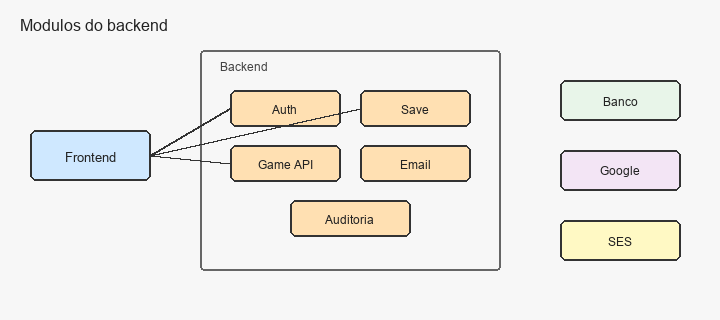
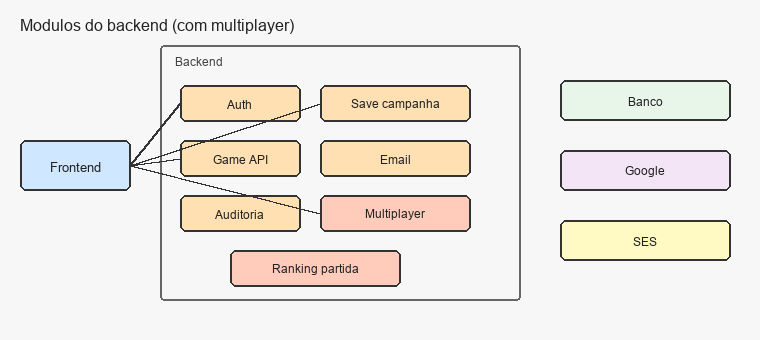
docs(isn): implante obrigatório e multiplayer nos diagramas
Remove escolha de implante na clínica; inclui multiplayer na
arquitetura, fluxos, requisitos, regras e casos de uso.

diff --git a/isn/docs/sprint1/05-diagramas-de-blocos.md b/isn/docs/sprint1/05-diagramas-de-blocos.md
@@ -3,22 +3,23 @@
 Projeto: Flesh to Chrome  
 Sprint 1 — visão de arquitetura (ainda pode mudar na implementação)
 
-As figuras estão em PNG em [`../imagens/`](../imagens/) (abrimos direto no GitHub/Preview). Também tem o Mermaid abaixo pra quem quiser editar fácil.
+As figuras estão em PNG em [`../imagens/`](../imagens/). Também tem Mermaid pra editar fácil.
 
 ---
 
 ## 1. Visão geral — cliente, servidor e nuvem
 
-O browser baixa o frontend e fala com a API. A API usa banco, OAuth e serviço de e-mail. Em produção isso vive na AWS.
+O browser baixa o frontend e fala com a API. A API cuida de save da campanha, multiplayer/salas, OAuth e e-mail.
 
 ```mermaid
 flowchart LR
   usuario[Usuario]
   browser[Browser_Frontend_Phaser]
   api[Backend_API_REST]
-  db[(Banco_de_dados)]
+  db[(Banco_save_ranking)]
   oauth[Provedor_OAuth_Google]
   email[Email_notificacoes]
+  mp[Multiplayer_salas]
   static[Hospedagem_estatica]
 
   usuario --> browser
@@ -27,6 +28,7 @@ flowchart LR
   api --> db
   api --> oauth
   api --> email
+  api --> mp
 ```
 
 ![Visão geral](../imagens/diagrama-visao-geral.png)
@@ -35,18 +37,18 @@ flowchart LR
 
 ## 2. Módulos do backend
 
-Separação bem direta do que a API precisa ter pra atender a disciplina + o jogo:
-
 ```mermaid
 flowchart TB
   fe[Frontend_Phaser]
 
   subgraph backend [Backend]
     auth[Auth_OAuth]
-    save[Save_progresso]
+    save[Save_campanha]
     game[Game_progress_API]
     notify[Email_notificacoes]
     audit[Auditoria]
+    multi[Multiplayer]
+    rank[Ranking_partida]
   end
 
   db[(Banco)]
@@ -56,26 +58,30 @@ flowchart TB
   fe --> auth
   fe --> save
   fe --> game
+  fe --> multi
   auth --> google
   auth --> db
   save --> db
   game --> db
+  multi --> db
+  multi --> rank
   save --> audit
   auth --> audit
   game --> audit
+  multi --> audit
   notify --> mailer
   auth --> notify
 ```
 
 ![Módulos do backend](../imagens/diagrama-modulos-backend.png)
 
-Resumo do que cada bloco faz:
-
 | Módulo | Função |
 | --- | --- |
 | Auth | login/logout com Google, sessão/token |
 | Save | grava/lê progresso da campanha |
-| Game progress | endpoints ligados a estado do jogo (fase, implante, Portão) |
+| Game progress | fase, implante, Portão |
+| Multiplayer | salas / partida 1v1 |
+| Ranking | resultado da corrida multiplayer |
 | E-mail | boas-vindas e avisos |
 | Auditoria | log de operações críticas |
 
@@ -107,10 +113,10 @@ flowchart TB
 ![Ambientes](../imagens/diagrama-ambientes.png)
 
 - **Dev:** pra testar sem gastar / sem quebrar produção.  
-- **Prod:** domínio público, subida automática com CI/CD + IaC (Pulumi), região padrão da disciplina `sa-east-1`.
+- **Prod:** domínio público, subida automática com CI/CD + IaC (Pulumi), região `sa-east-1`.
 
 ---
 
 ## Observação
 
-Isso é diagrama de blocos da Sprint 1. Nomes exatos de serviços AWS (S3, CloudFront, ECS, RDS, etc.) a gente fecha quando for montar o Pulumi de verdade.
+Sprint 1 = diagrama de blocos. Nomes exatos de serviços AWS a gente fecha no Pulumi depois.

diff --git a/isn/docs/sprint1/03-regras-de-negocio.md b/isn/docs/sprint1/03-regras-de-negocio.md
@@ -52,13 +52,13 @@ Se no futuro existir loja de skin:
 ## 5. Clínica e implantes
 
 1. Ao concluir as Fases 1–4, Alex passa pela clínica do George Vektor.
-2. Aceitar o implante é necessário pra liberar a habilidade e seguir a campanha como desenhado.
+2. O implante **não é opcional**: o procedimento acontece e a campanha segue. O jogador não escolhe “sim/não”.
 3. Ordem fixa:
    - Fase 1 → pernas → salto duplo  
    - Fase 2 → braços → ataque/quebra  
    - Fase 3 → olhos → scan  
    - Fase 4 → propulsores → dash  
-4. Implante aceito fica registrado no save e altera o visual/moveset.
+4. Implante fica registrado no save e altera o visual/moveset.
 
 ---
 
@@ -73,17 +73,19 @@ Se no futuro existir loja de skin:
 
 ---
 
-## 7. Multiplayer (secundário)
+## 7. Multiplayer
 
-1. Não altera save da campanha nem finais.
-2. É uma corrida separada (tempo + créditos da partida).
-3. Só entra no escopo se o núcleo (campanha + save + requisitos de nuvem) estiver ok.
+1. Modo separado da campanha: corrida competitiva (dois jogadores).
+2. Exige login (pra identificar quem jogou e gravar resultado da partida).
+3. Resultado combina tempo e créditos da partida.
+4. **Não** altera save da campanha, implantes nem finais.
+5. Backend mantém sala/partida e pode guardar ranking simples da corrida.
 
 ---
 
 ## 8. Auditoria e comunicação
 
-1. Operações críticas devem gerar registro: login, logout, criação/atualização de save, escolha do Portão, (e compra cosmética se existir).
+1. Operações críticas devem gerar registro: login, logout, criação/atualização de save, escolha do Portão, resultado de partida multiplayer (e compra cosmética se existir).
 2. O sistema pode enviar e-mail/notificação (ex.: boas-vindas após primeiro login, ou aviso de progresso relevante).
 3. Logs de auditoria servem pra análise posterior, não pra gameplay.
 

diff --git a/isn/docs/sprint1/04-casos-de-uso.md b/isn/docs/sprint1/04-casos-de-uso.md
@@ -76,13 +76,13 @@ Projeto: Flesh to Chrome
 
 ---
 
-## UC05 — Clínica / aceitar implante
+## UC05 — Clínica / receber implante
 
 - **Ator:** Jogador (idealmente autenticado pra persistir)
 - **Pré-condição:** acabou de concluir Fase 1, 2, 3 ou 4
 - **Fluxo principal:**
   1. Jogo abre cena da clínica (George Vektor)
-  2. Jogador aceita o procedimento
+  2. O procedimento acontece (não há escolha de recusar)
   3. Implante correspondente é marcado no estado do jogo
   4. Habilidade nova é liberada
   5. Se autenticado, save é atualizado (UC04)
@@ -123,9 +123,25 @@ Projeto: Flesh to Chrome
 - **Pré-condição:** autenticado; eventos já registrados
 - **Fluxo principal:**
   1. Usuário (ou admin) solicita histórico de operações críticas
-  2. Backend filtra e devolve lista (login, saves, escolha do Portão, etc.)
+  2. Backend filtra e devolve lista (login, saves, escolha do Portão, partida multiplayer, etc.)
   3. Interface mostra os registros
 - **Obs.:** na prática da disciplina, o importante é **existir o registro**; a tela de consulta pode ser simples (até endpoint documentado + listagem básica)
+
+---
+
+## UC09 — Jogar multiplayer competitivo
+
+- **Ator:** Jogador
+- **Pré-condição:** autenticado
+- **Fluxo principal:**
+  1. No menu, escolhe modo multiplayer
+  2. Cria ou entra em uma sala/partida
+  3. Quando há 2 jogadores prontos, a corrida começa
+  4. Cada um joga a pista (tempo + créditos da partida)
+  5. Backend registra resultado / ranking da corrida
+  6. Sistema mostra vencedor
+- **Regras:** não mexe no save da campanha nem nos finais
+- **Alternativo:** sala incompleta / desconexão → partida cancela ou declara WO (a gente define na implementação)
 
 ---
 
@@ -146,5 +162,6 @@ flowchart TB
   jogador --> UC06
   jogador --> UC07
   jogador --> UC08
+  jogador --> UC09
   sistema --> UC07
 ```

diff --git a/isn/docs/sprint1/02-requisitos.md b/isn/docs/sprint1/02-requisitos.md
@@ -61,14 +61,15 @@ Eles detalham o jogo + como a gente cumpre a lista da disciplina no nosso contex
 | --- | --- |
 | RF13 | O jogo deve ser um auto-runner 2D: Alex corre automaticamente; o jogador controla pulo e slide desde a Fase 1. |
 | RF14 | A campanha de ascensão deve ter 5 fases (setores) em Glitch City. |
-| RF15 | Ao concluir as Fases 1–4, o jogador deve acessar a clínica e poder aceitar um implante. |
+| RF15 | Ao concluir as Fases 1–4, o jogador deve passar pela clínica e receber o implante correspondente (sem opção de recusar). |
 | RF16 | Os implantes devem seguir a ordem: pernas (salto duplo), braços (ataque), olhos (scan), propulsores (dash). |
-| RF17 | Cada implante aceito deve liberar a habilidade correspondente e ficar registrado no save. |
+| RF17 | Cada implante deve liberar a habilidade correspondente e ficar registrado no save. |
 | RF18 | Perigos letais devem matar em 1 hit e reiniciar do último checkpoint. |
 | RF19 | O jogador deve poder coletar créditos; checkpoint consolida a pontuação da campanha. |
 | RF20 | Na Fase 5 (Portão), o jogador deve escolher entre Final Chrome (aceitar) ou iniciar a descida (recusar). |
 | RF21 | O save autenticado deve guardar no mínimo: fase/setor, implantes, créditos consolidados e caminho escolhido. |
-| RF22 | Multiplayer competitivo é secundário: só entra se o núcleo (campanha + save + requisitos de nuvem) estiver ok. |
+| RF22 | O sistema deve oferecer multiplayer competitivo (corrida com 2 jogadores autenticados). |
+| RF23 | O multiplayer deve registrar resultado/ranking da partida sem alterar o save da campanha. |
 
 Obs.: números de balanceamento / level design o Victor ainda pode ajustar nas regras de negócio e no GDD.
 

diff --git a/isn/docs/sprint1/06-fluxogramas.md b/isn/docs/sprint1/06-fluxogramas.md
@@ -56,28 +56,49 @@ flowchart TD
 
 ---
 
-## 3. Clínica → implante → habilidade
+## 3. Clínica → implante → habilidade (sem escolha)
+
+O jogador **não escolhe** se coloca o implante. Depois da fase 1–4 o procedimento acontece e a habilidade é liberada.
 
 ```mermaid
 flowchart TD
   fimFase([Concluiu fase 1-4]) --> clinica[Cena da clinica]
-  clinica --> aceita{Aceita implante?}
-  aceita -->|Sim| marca[Marca implante no estado]
+  clinica --> marca[Implante instalado]
   marca --> libera[Libera habilidade nova]
   libera --> auth{Jogador autenticado?}
   auth -->|Sim| save[Salva no backend]
   save --> audit[Registra na auditoria]
   audit --> proxima[Segue pra proxima fase]
   auth -->|Nao| proxima
-  aceita -->|Nao| bloqueio[Fica sem a habilidade / campanha incompleta]
-  bloqueio --> nota[Regra final de recusa pode ser ajustada no GDD]
 ```
 
 ![Fluxo clínica](../imagens/fluxo-clinica.png)
 
 ---
 
-## 4. Deploy em produção (alto nível)
+## 4. Multiplayer competitivo
+
+```mermaid
+flowchart TD
+  menu([Menu multiplayer]) --> login{Autenticado?}
+  login -->|Nao| auth[Faz login]
+  auth --> sala
+  login -->|Sim| sala[Cria ou entra na sala]
+  sala --> prontos{2 jogadores prontos?}
+  prontos -->|Nao| espera[Aguarda / cancela]
+  espera --> sala
+  prontos -->|Sim| corrida[Corrida tempo + creditos]
+  corrida --> resultado[Calcula vencedor]
+  resultado --> rank[Grava ranking da partida]
+  rank --> fim([Volta ao menu])
+  rank -.-> saveCampanha[Nao altera save da campanha]
+```
+
+![Fluxo multiplayer](../imagens/fluxo-multiplayer.png)
+
+---
+
+## 5. Deploy em produção (alto nível)
 
 ```mermaid
 flowchart TD
